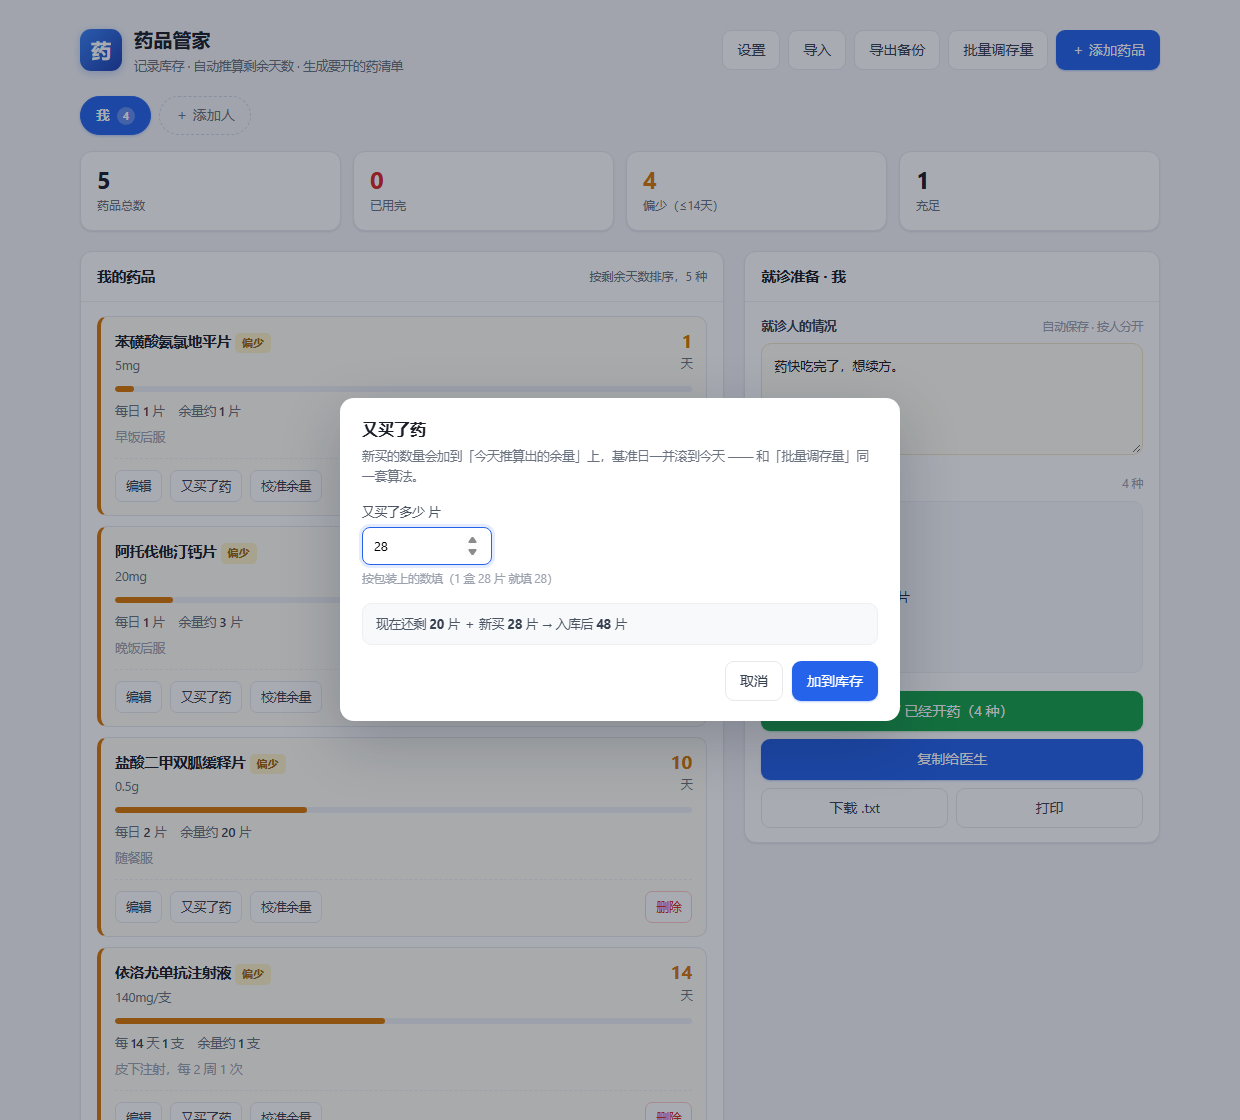
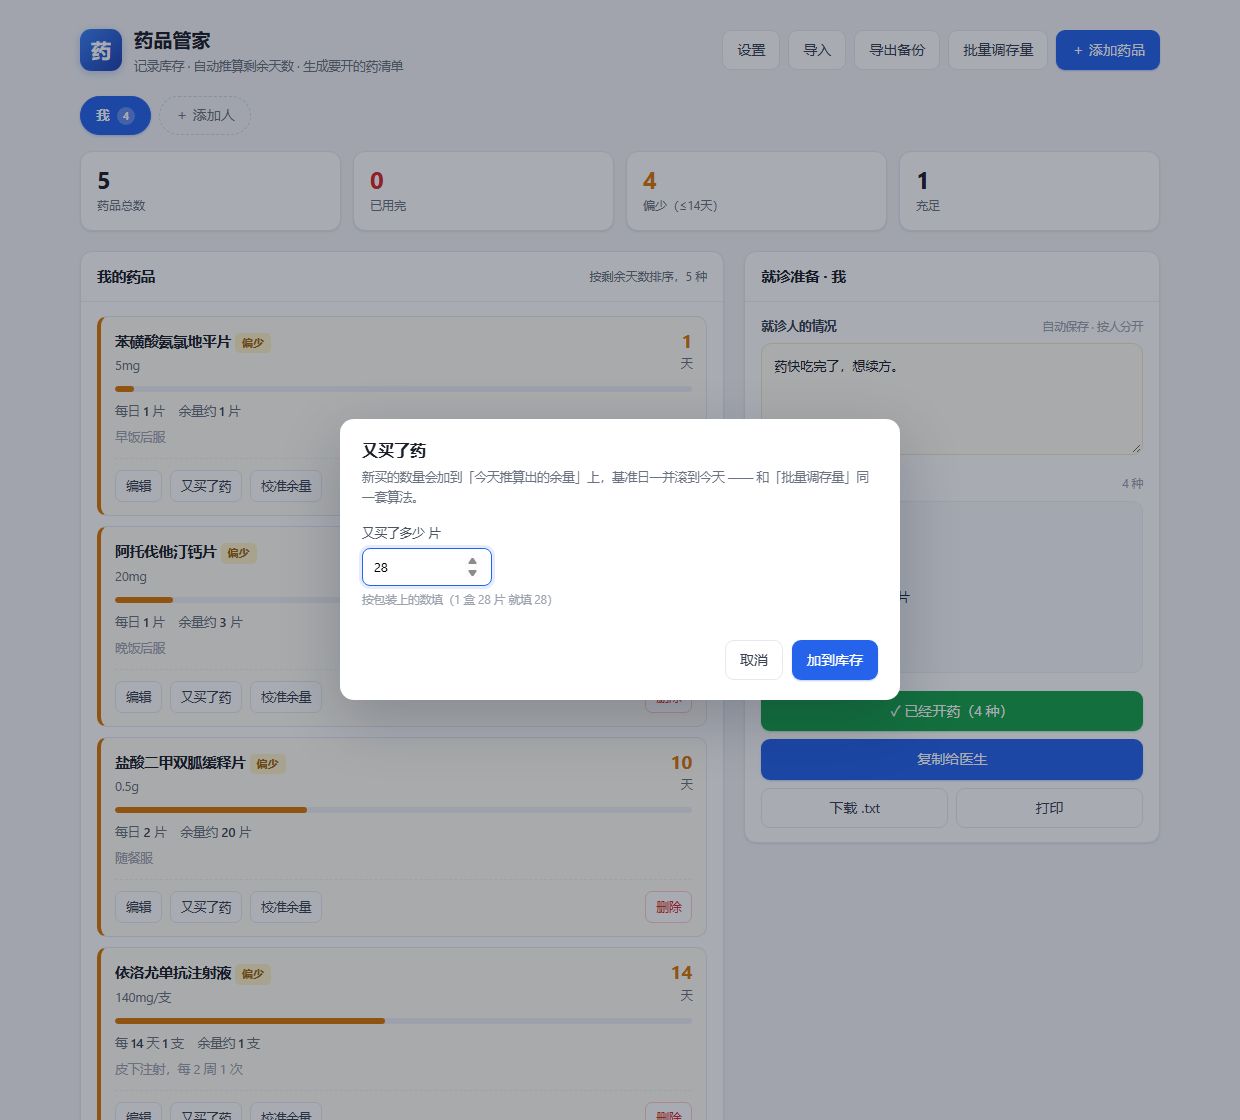
sync: 2026-10-12 08:34

Changed region(s): [[0.2758, 0.3438, 0.7355, 0.5625], [0.2758, 0.5625, 0.7355, 0.6562], [0.6129, 0.4062, 0.7048, 0.4375]]

diff --git a/index.html b/index.html
@@ -461,8 +461,11 @@ dialog::backdrop{background:rgba(15,23,42,.36)}
 </dialog>
 
 <!-- 单个数字弹窗：「又买了药」/「校准余量」共用（替代浏览器自带的 prompt 小框） -->
+<!-- ★ 2026-10-12 用户要求：单位不用 0.25（半片那种粒度数药片时用不上）→ step="1"，按 1 片计。
+     form 上加 novalidate：否则浏览器会用自己的气泡拦下 step/min 不符的值（用户明确讨厌原生弹窗），
+     校验一律交给 submitNum() 里的 alert。仍想填 0.5 之类的可以直接打进去，不会被拦。 -->
 <dialog id="dlgNum">
-  <form id="formNum">
+  <form id="formNum" novalidate>
     <div class="dlg-h">
       <h3 id="numTitle">数量</h3>
       <p id="numSub"></p>
@@ -470,10 +473,9 @@ dialog::backdrop{background:rgba(15,23,42,.36)}
     <div class="dlg-b">
       <label class="bulk-days">
         <span id="numLabel">数量</span>
-        <input name="val" id="numVal" type="number" step="0.25" min="0" autocomplete="off">
+        <input name="val" id="numVal" type="number" step="1" min="0" autocomplete="off">
         <span class="hintline" id="numHint"></span>
       </label>
-      <div class="disp-sum" id="numCalc"></div>
     </div>
     <div class="dlg-f">
       <button type="button" class="btn ghost" id="btnNumCancel">取消</button>
@@ -1128,16 +1130,18 @@ function renderPeopleMgr(){
 }
 
 /* -------------------- 单个数字弹窗（「又买了药」/「校准余量」共用） -------------------- */
-// ★ 2026-10-11 用户要求：这两个入口原来是浏览器原生 prompt —— 顶部一条小框、手机上尤其难用，
-//   而且看不见「改完会变成多少」。改成和「批量调存量」同一套**中间弹窗**：
-//   标题 + 说明 + 输入框 + 一行「现在 → 改完」的实时对照 + 取消/确定。
+// ★ 2026-10-11 用户要求：这两个入口原来是浏览器原生 prompt —— 顶部一条小框、手机上尤其难用。
+//   改成和「批量调存量」同一套**中间弹窗**：标题 + 说明 + 输入框 + 取消/确定。
 //   两个入口共用同一个 dialog（#dlgNum），只是 mode 不同：
 //     · mode='add'：cur + 你填的量 → 入库（又买了药）
 //     · mode='set'：直接校准成你填的数（校准余量）
+// ★ 2026-10-12 用户要求：把弹窗里那行实时对照（「现在推算还剩 X」「系统推算 X → 校准为 Y」）
+//   **整行删掉**，只留标题/说明/输入框/按钮。所以下面不再有 renderNumCalc / #numCalc。
+//   ⚠ 以后别再把它加回来 —— 用户明确嫌它啰嗦（和编辑弹窗那行蓝字同一次评审里砍掉的）。
 let numCtx = null;
 
 function openNumDialog(o){
-  numCtx = o;                                   // { mode, cur, unit, onOk }
+  numCtx = o;                                   // { mode, onOk }（cur/unit 已不再参与显示）
   $('#numTitle').textContent = o.title;
   $('#numSub').textContent   = o.sub;
   $('#numLabel').textContent = o.label;
@@ -1148,30 +1152,14 @@ function openNumDialog(o){
   const ok = $('#btnNumOk');
   ok.textContent = o.okText || '确定';
   ok.className   = 'btn ' + (o.danger ? 'danger' : 'primary');
-  renderNumCalc();
   $('#dlgNum').showModal();
   inp.focus();
   inp.select();
 }
 
-// 「现在推算 X → 改完 Y」。和批量弹窗一样先把结果摆出来，不让人靠猜（填之前显示现状）。
-function renderNumCalc(){
-  const el = $('#numCalc');
-  if(!el || !numCtx) return;
-  const u = esc(numCtx.unit);
-  const cur = fmtNum(numCtx.cur);
-  const v = Number($('#numVal').value);
-  if(numCtx.mode === 'add'){
-    if(!isFinite(v) || v <= 0){ el.innerHTML = '现在推算还剩 <b>' + cur + '</b> ' + u; return; }
-    el.innerHTML = '现在还剩 <b>' + cur + '</b> ' + u
-      + ' ＋ 新买 <b>' + fmtNum(round2(v)) + '</b> ' + u
-      + ' → 入库后 <b>' + fmtNum(round2(numCtx.cur + v)) + '</b> ' + u;
-    return;
-  }
-  if(!isFinite(v) || v < 0){ el.innerHTML = '系统推算还剩 <b>' + cur + '</b> ' + u; return; }
-  el.innerHTML = '系统推算 <b>' + cur + '</b> ' + u
-    + ' → 校准为 <b>' + fmtNum(round2(v)) + '</b> ' + u;
-}
+
+// 「现在推算 X → 改完 Y」那行实时对照已于 2026-10-12 按用户要求整行删除（连函数一起），
+// 见上面 openNumDialog 处的注释。别再恢复。
 
 function submitNum(e){
   e.preventDefault();
@@ -1193,7 +1181,7 @@ function restockMed(id){
   const unit = m.unit || '片';
   const cur = stockNow(m);
   openNumDialog({
-    mode: 'add', cur: cur, unit: unit, value: '',
+    mode: 'add',
     title: '又买了药',
     sub: '新买的数量会加到「今天推算出的余量」上，基准日一并滚到今天 —— 和「批量调存量」同一套算法。',
     label: '又买了多少 ' + unit,
@@ -1210,11 +1198,11 @@ function calibMed(id){
   const unit = m.unit || '片';
   const cur = stockNow(m);
   openNumDialog({
-    mode: 'set', cur: cur, unit: unit, value: cur, min: 0,
+    mode: 'set', value: cur, min: 0,
     title: '校准余量',
     sub: '按你今天实际数出来的数量填，程序以它为准重新往下推算（漏服、多吃、数错了都用它对齐）。',
     label: '今天实际还剩多少 ' + unit,
-    hint: '填 0 也可以（等于已用完）；基准日一并滚到今天',
+    hint: '按整数 ' + unit + ' 填；填 0 也可以（等于已用完），基准日一并滚到今天',
     okText: '校准',
     onOk: function(v){ m.stockBase = round2(v); m.stockDate = todayStr(); save(); render(); }
   });
@@ -1601,8 +1589,7 @@ $('#btnBulkMinus').addEventListener('click', function(){ applyBulk(-1); });
 $('#btnBulkCancel').addEventListener('click', function(){ $('#dlgBulk').close(); });
 $('#formBulk').addEventListener('submit', function(e){ e.preventDefault(); });
 
-// 单个数字弹窗（又买了药 / 校准余量）
-$('#numVal').addEventListener('input', renderNumCalc);
+// 单个数字弹窗（又买了药 / 校准余量）—— 输入时不再有实时对照行要同步（2026-10-12 已删）
 $('#btnNumCancel').addEventListener('click', function(){ $('#dlgNum').close(); });
 $('#formNum').addEventListener('submit', submitNum);
 $('#btnImport').addEventListener('click', function(){ $('#fileImport').click(); });

diff --git a/_check/test_rxcap.py b/_check/test_rxcap.py
@@ -403,9 +403,11 @@ PROBE = r"""
   q('#dlgMed').close();
 
   // ---- 9. ★ 2026-10-11 用户要求：「又买了药」「校准余量」也走中间弹窗 ----
-  //    原来是浏览器原生 prompt（顶部小框、手机上难用、看不见改完是多少）。
-  //    现在共用 #dlgNum，必须像「批量调存量」一样在页面中间，并把
-  //    「现在推算 X → 改完 Y」摆出来。同时**不许再调 window.prompt**。
+  //    原来是浏览器原生 prompt（顶部小框、手机上难用）。现在共用 #dlgNum，
+  //    必须像「批量调存量」一样在页面中间，并且**不许再调 window.prompt**。
+  //    ★ 2026-10-12 用户要求（两处）：①弹窗里那行实时对照整行删掉
+  //      ——「现在推算还剩 X」/「系统推算 X → 校准为 Y」，元素 #numCalc 与函数
+  //      renderNumCalc 都要消失；②输入单位不再用 0.25，改成 1 片一档。
   var restName = '每日两片对账';                  // 现在 4 片，每日 2 片
   setMeds([
     { name: restName, spec:'5mg', perDose:2, unit:'片', cycleDays:1, timesPerCycle:1,
@@ -423,15 +425,14 @@ PROBE = r"""
   ck('没有调用浏览器原生 prompt', R.prompts.length === promptsBefore, R.prompts.join(' | '));
   ck('弹窗标题是「又买了药」', dlgNumTxt('#numTitle') === '又买了药', dlgNumTxt('#numTitle'));
   ck('输入行的标签写了单位', /又买了多少\s*片/.test(dlgNumTxt('#numLabel')), dlgNumTxt('#numLabel'));
-  ck('填之前先把现状摆出来（现在推算还剩 4 片）',
-     /现在推算还剩\s*4\s*片/.test(dlgNumTxt('#numCalc')), dlgNumTxt('#numCalc'));
-  // 输入 28 → 对照行必须给出「4 ＋ 28 → 32」
+  // ★ 那行实时对照必须**彻底消失**：元素不在 DOM、函数也不存在
+  ck('#numCalc 那行实时对照已从 DOM 删掉', !q('#numCalc'), q('#numCalc') ? '还在' : '(无)');
+  ck('renderNumCalc 函数也已删掉', typeof renderNumCalc === 'undefined', typeof renderNumCalc);
+  // ★ 单位：1 片一档，不再是 0.25
+  ck('输入框 step = 1（不再 0.25 一档）', q('#numVal').step === '1', q('#numVal').step);
+  ck('表单带 novalidate（校验不弹浏览器原生气泡）',
+     q('#formNum').hasAttribute('novalidate'), q('#formNum').hasAttribute('novalidate'));
   q('#numVal').value = '28';
-  renderNumCalc();
-  ck('对照行写成「现在还剩 4 片 ＋ 新买 28 片 → 入库后 32 片」',
-     /现在还剩\s*4\s*片/.test(dlgNumTxt('#numCalc'))
-     && /新买\s*28\s*片/.test(dlgNumTxt('#numCalc'))
-     && /入库后\s*32\s*片/.test(dlgNumTxt('#numCalc')), dlgNumTxt('#numCalc'));
   ck('按钮文案是「加到库存」', dlgNumTxt('#btnNumOk') === '加到库存', dlgNumTxt('#btnNumOk'));
   submitNum({ preventDefault: function(){} });
   ck('确认后库存 = 4 + 28 = 32', byName(restName).stockBase === 32, byName(restName).stockBase);
@@ -441,7 +442,6 @@ PROBE = r"""
   // 9b. 校准余量：预填系统推算值，填 0 也允许
   restockMed(byName(restName).id);            // 先开一次再取消，确认不写数据
   q('#numVal').value = '999';
-  renderNumCalc();
   ck('取消不会改数据（仍是 32）', byName(restName).stockBase === 32, byName(restName).stockBase);
   q('#dlgNum').close();
 
@@ -449,12 +449,10 @@ PROBE = r"""
   ck('「校准余量」用的也是 #dlgNum', q('#dlgNum').open, '');
   ck('校准标题正确', dlgNumTxt('#numTitle') === '校准余量', dlgNumTxt('#numTitle'));
   ck('校准预填系统推算的 7', q('#numVal').value === '7', q('#numVal').value);
-  ck('校准的对照行是「系统推算 7 片 → 校准为 …」',
-     /系统推算\s*7\s*片/.test(dlgNumTxt('#numCalc')), dlgNumTxt('#numCalc'));
+  ck('校准弹窗里同样没有那行对照', !q('#numCalc'), q('#numCalc') ? '还在' : '(无)');
+  ck('校准的提示写明按整数片填', /按整数\s*片/.test(dlgNumTxt('#numHint')), dlgNumTxt('#numHint'));
+  ck('校准的输入框 step 也是 1', q('#numVal').step === '1', q('#numVal').step);
   q('#numVal').value = '3';
-  renderNumCalc();
-  ck('改成 3 → 对照行给出 7 → 3', /系统推算\s*7\s*片\s*→\s*校准为\s*3\s*片/.test(dlgNumTxt('#numCalc')),
-     dlgNumTxt('#numCalc'));
   submitNum({ preventDefault: function(){} });
   ck('校准后存 3 片 / 基准今天',
      byName('校准用对照片').stockBase === 3 && byName('校准用对照片').stockDate === todayStr(),
@@ -555,6 +553,22 @@ def main():
         "name": "源码里署名容器只有一处",
         "pass": n_sig == 1,
         "got": n_sig,
+    })
+    # ---- 源码级：单数字弹窗那行实时对照已彻底清除（2026-10-12 用户要求）----
+    #   只数「代码痕迹」，注释里提到这个名字不算（注释是留给维护者的说明）
+    n_calc = (src.count('id="numCalc"') + src.count('renderNumCalc(')
+              + src.count("#numCalc')"))
+    data["cases"].append({
+        "name": "源码里已无 numCalc 元素 / renderNumCalc 调用（注释除外）",
+        "pass": n_calc == 0,
+        "got": n_calc,
+    })
+    # ---- 源码级：单位不再是 0.25 一档（#numVal 的 step 已是 1）----
+    mstep = re.search(r'id="numVal"[^>]*step="([^"]+)"', src)
+    data["cases"].append({
+        "name": "源码里 #numVal 的 step = 1（不再 0.25）",
+        "pass": bool(mstep) and mstep.group(1) == "1",
+        "got": mstep.group(1) if mstep else "(没找到)",
     })
 
     fails = [c for c in data["cases"] if not c["pass"]]

diff --git a/_check/shot.py b/_check/shot.py
@@ -50,9 +50,13 @@ HOOKS = {
     #   挑「每天 2 片」那味：卡片写「余量约 20 片」，弹窗里预填的也该是 20。
     "edit": "openEditor(meds[2].id);",
     # ★ 「又买了药」现在是中间弹窗（原来走浏览器原生 prompt，2026-10-11 用户要求改掉）。
-    #   这里顺手把数量填成 28，把「现在还剩 20 片 ＋ 新买 28 片 → 入库后 48 片」那行拍下来。
+    #   2026-10-12 用户要求把那行实时对照删掉，所以这里只填数、不再调 renderNumCalc。
+    #   顺手把输入框填成 28，拍的是「标题 + 说明 + 输入框 + 按钮」的干净形态。
     "restock": "restockMed(meds[2].id);"
-               " document.querySelector('#numVal').value = '28'; renderNumCalc();",
+               " document.querySelector('#numVal').value = '28';",
+    # ★ 校准余量：同一个弹窗的另一种模式，同样已无实时对照行（2026-10-12）。
+    #   拍它是因为用户就是在这个弹窗里提的「不用 0.25 这一档」——留一张可核 step=1。
+    "calib": "calibMed(meds[2].id);",
 }
 
 

diff --git a/README.md b/README.md
@@ -99,13 +99,13 @@
 | 数了一遍，和程序算的对不上 | 卡片上的「**校准余量**」，直接填数出来的数 |
 | **一批药一起买的**（或一起漏吃了几天） | 顶部「**批量调存量**」 |
 
-「又买了药」和「校准余量」都是**页面中间的弹窗**（不是浏览器自带那种小框），
-输入框下面会实时摆出这笔账的「现在 → 改完」，看清了再确认：
+「又买了药」和「校准余量」都是**页面中间的弹窗**（不是浏览器自带那种小框）：
+标题 + 一句话说明 + 输入框 + 取消/确定。**没有多余的对账行**，填完点按钮就行。
+输入按 **1 片为单位**（不用管 0.25 那种半片的档位）。
 
-```
-现在还剩 20 片 ＋ 新买 28 片 → 入库后 48 片      （又买了药）
-系统推算 7 片 → 校准为 3 片                      （校准余量）
-```
+![又买了药](docs/screenshot-restock.png)
+
+![校准余量](docs/screenshot-calib.png)
 
 > **卡片上和编辑弹窗里是同一个数**：点开「编辑」，那格「余量」预先填好的就是**按用法扣到今天**
 > 之后还剩多少 —— 也就是卡片上「余量约 X」那个 X，不用自己做减法。
@@ -114,8 +114,6 @@
 > 保存会把原来的基准原样写回；只有当你**确实动了「余量」或它的日期**，才按你填的存、并把基准日滚到今天。
 
 ![编辑药品](docs/screenshot-edit.png)
-
-![又买了药](docs/screenshot-restock.png)
 
 「批量调存量」是给「一次改一大片」用的：填一个天数，它**按每味药自己的用法**换算成数量 ——
 
@@ -149,7 +147,7 @@
 
 ```
 index.html            程序本体：单文件，拷走就能跑
-_check/test_rxcap.py  自检脚本 —— 无头 Chrome 跑 110 项断言（口径、入库、文案、批量调存量、弹窗对账）
+_check/test_rxcap.py  自检脚本 —— 无头 Chrome 跑 122 项断言（口径、入库、文案、批量调存量、中间弹窗）
 _check/shot.py        重新生成 docs/ 里的截图
 docs/                 README 用的截图
 ```
@@ -161,7 +159,7 @@ python _check/test_rxcap.py
 ```
 
 它会用无头 Chrome 打开一份临时副本（数据由脚本临时注入，不会写回 `index.html`），
-把 110 条断言的通过情况打印出来，退出码非 0 就是有回归。
+把 122 条断言的通过情况打印出来，退出码非 0 就是有回归。
 
 > 程序内**没有内置示例数据**，打开就是空药箱 —— 示例数据里带着病情描述，不该跟着代码分发。
 
